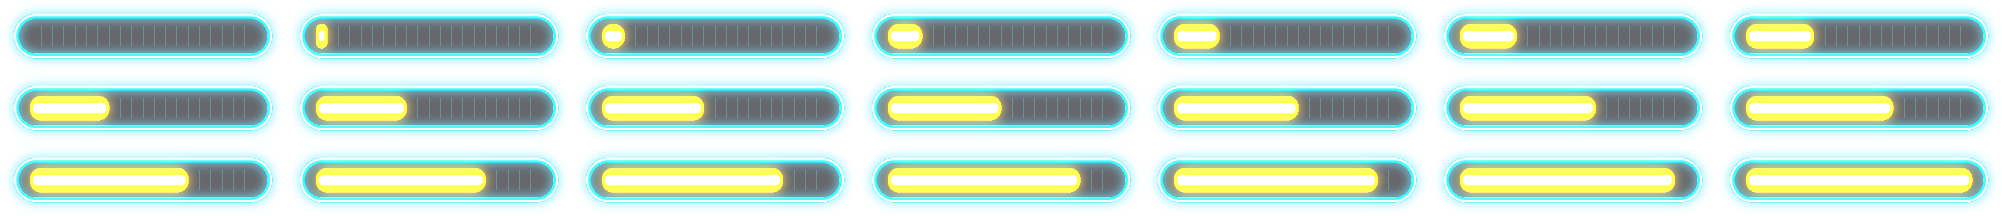
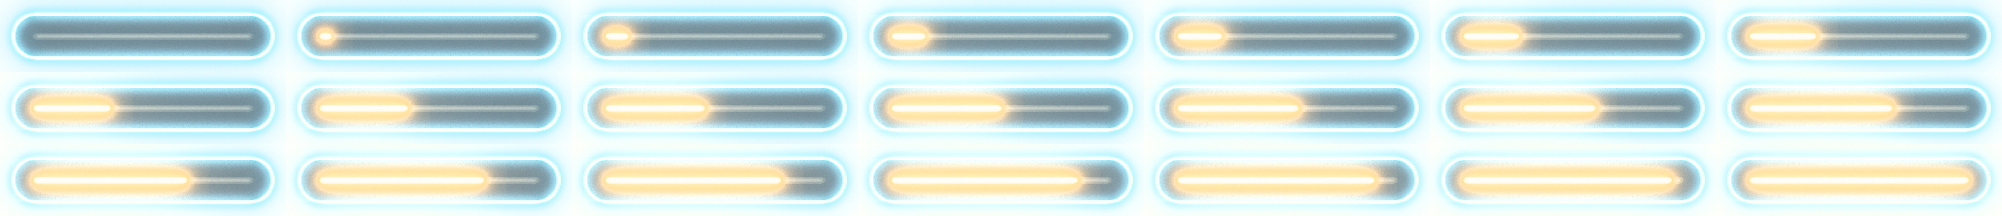
Loading bar: same glass-tube neon as the sign; alternative splash sound sets (preview only)

diff --git a/tools/art/splash_sound_options.py b/tools/art/splash_sound_options.py
@@ -1,0 +1,91 @@
+"""Alternative neon sound sets for the splash. Each set: hum (loops), zap, strike, dip as wav, plus demo_<set>.wav that plays them in the order the splash does."""
+import numpy as np, os, wave
+SR = 44100
+OUT = os.path.join(os.path.dirname(__file__), 'splash_sound_options')
+r = np.random.default_rng(9)
+
+def lp(x, k): return np.convolve(x, np.ones(k) / k, mode='same')
+def hp(x, k): return x - lp(x, k)
+def t_(n): return np.arange(n) / SR
+def env(n, a, d): t = t_(n); return np.minimum(t / a, 1) * np.exp(-t / d)
+def norm(x, p=0.8): return x / (np.abs(x).max() + 1e-9) * p
+def loopfade(x, ms=10):
+    f = int(ms / 1000 * SR); x = x.copy(); x[:f] *= np.linspace(0, 1, f); x[-f:] *= np.linspace(1, 0, f); return x
+def noise(n): return r.normal(0, 1, n)
+def clicks(n, rate, tail, dur):
+    z = np.zeros(n)
+    for i in np.nonzero(r.random(n) < rate / SR)[0]:
+        m = min(n - i, int(dur * SR)); z[i:i + m] += r.uniform(.3, 1) * r.choice([-1, 1]) * noise(m) * np.exp(-np.arange(m) / (tail * SR))
+    return z
+
+def set_A():  # transformer: deep, warm, mechanical
+    n = 2 * SR; t = t_(n)
+    hum = sum(a * np.sin(2 * np.pi * 50 * k * t + k * .7) for k, a in ((1, 1), (2, .7), (3, .35), (4, .3), (6, .12)))
+    hum = norm(hum) + .12 * norm(lp(noise(n), 40)) * (.6 + .4 * np.sin(2 * np.pi * 100 * t))
+    n2 = int(.25 * SR)
+    zap = norm(lp(noise(n2), 6) * env(n2, .001, .02) + .6 * np.sin(2 * np.pi * 70 * t_(n2)) * env(n2, .002, .06))
+    n3 = int(.9 * SR); t3 = t_(n3)
+    clack = lp(noise(n3), 3) * env(n3, .0005, .012) + .7 * lp(noise(n3), 18) * env(n3, .0005, .035)
+    swell = np.sin(2 * np.pi * 50 * t3 + 2 * np.pi * 25 * t3 ** 2) * (1 - np.exp(-t3 * 6)) * np.exp(-t3 / .6)
+    strike = norm(clack * 1.2 + .9 * swell)
+    n4 = int(.6 * SR); t4 = t_(n4)
+    dip = norm(np.sin(2 * np.pi * np.cumsum(90 * np.exp(-t4 * 4) + 28) / SR) * env(n4, .004, .25) + .5 * lp(noise(n4), 25) * env(n4, .002, .12))
+    return hum, zap, strike, dip
+
+def set_B():  # ballast sizzle: bright, frying, electric
+    n = 2 * SR; t = t_(n)
+    whine = np.sin(2 * np.pi * 8000 * t + 3 * np.sin(2 * np.pi * 3 * t)) * (.5 + .5 * np.sin(2 * np.pi * 2 * t))
+    fry = clicks(n, 900, .0007, .004) ; fry = fry / np.abs(fry).max()
+    hiss = hp(noise(n), 8); hiss /= np.abs(hiss).max()
+    hum = .18 * whine + .55 * fry + .25 * hiss * (.6 + .4 * np.sin(2 * np.pi * 1 * t)) + .25 * np.sin(2 * np.pi * 120 * t)
+    n2 = int(.2 * SR); t2 = t_(n2)
+    zap = norm(hp(noise(n2), 5) * env(n2, .0005, .03) + .5 * np.sin(2 * np.pi * 2400 * t2 * (1 - 2 * t2)) * env(n2, .001, .04) + clicks(n2, 60, .002, .01))
+    n3 = int(.8 * SR); t3 = t_(n3)
+    sizzle = hp(noise(n3), 6) * (1 - np.exp(-t3 * 7)) * np.exp(-t3 / .45)
+    strike = norm(clicks(n3, 80, .0015, .008) * env(n3, .0001, .35) + .8 * sizzle + .5 * np.sin(2 * np.pi * (3000 + 4000 * t3) * t3) * env(n3, .01, .12))
+    n4 = int(.55 * SR); t4 = t_(n4)
+    dip = norm(np.sin(2 * np.pi * np.cumsum(6000 * np.exp(-t4 * 7) + 200) / SR) * env(n4, .003, .2) + .4 * hp(noise(n4), 6) * env(n4, .002, .08))
+    return hum, zap, strike, dip
+
+def set_C():  # soft synth: musical, glassy, retro
+    n = 2 * SR; t = t_(n)
+    hum = np.sin(2 * np.pi * 55 * t) + .5 * np.sin(2 * np.pi * 82.5 * t) + .25 * np.sin(2 * np.pi * 110 * t)
+    hum = norm(hum) * (.8 + .2 * np.sin(2 * np.pi * 1 * t)) + .06 * norm(hp(lp(noise(n), 4), 40))
+    n2 = int(.18 * SR); t2 = t_(n2); f = r.choice([1320, 1760, 1568])
+    zap = norm(np.sin(2 * np.pi * f * t2 * (1 + .5 * np.exp(-t2 * 40))) * env(n2, .001, .03) + .4 * np.sin(2 * np.pi * f * 2 * t2) * env(n2, .001, .015))
+    n3 = int(1.0 * SR); t3 = t_(n3); strike = np.zeros(n3)
+    for k, fr in enumerate((220, 330, 440, 660, 880)):
+        s = int(k * .07 * SR); tt = t_(n3 - s)
+        strike[s:] += (np.sin(2 * np.pi * fr * tt) + .3 * np.sin(2 * np.pi * fr * 2 * tt)) * env(n3 - s, .002, .22) * (.5 + .1 * k)
+    strike = norm(strike + .15 * hp(noise(n3), 8) * env(n3, .0005, .02))
+    n4 = int(.6 * SR); t4 = t_(n4)
+    dip = norm((np.sin(2 * np.pi * np.cumsum(660 * np.exp(-t4 * 5) + 80) / SR) + .3 * np.sin(2 * np.pi * np.cumsum(990 * np.exp(-t4 * 5) + 120) / SR)) * env(n4, .003, .3))
+    return hum, zap, strike, dip
+
+def save(path, x):
+    with wave.open(path, 'wb') as w:
+        w.setnchannels(1); w.setsampwidth(2); w.setframerate(SR); w.writeframes((np.clip(x, -1, 1) * 32767).astype(np.int16).tobytes())
+
+def demo(hum, zap, strike, dip):
+    n = 12 * SR; m = np.zeros(n)
+    def put(x, at, v):
+        i = int(at * SR); k = min(len(x), n - i); m[i:i + k] += x[:k] * v
+    for i in range(6): put(strike if i == 0 else zap, .3 + .25 * i + (0 if i else 0), 1 if i == 0 else .35)
+    rep = np.tile(hum, 6)[:n]
+    ramp = np.clip((t_(n) - .3) / 1.5, 0, 1) * 0.3
+    m += rep * ramp * (1 - .7 * ((t_(n) > 8) & (t_(n) < 8.35)))
+    for at in (3.2, 3.32, 3.43, 3.6, 3.7): put(zap, at, .5)
+    for at in (6.0, 6.1, 6.2, 6.3): put(zap, at, .5)
+    put(dip, 8, .8)
+    for at in (10.0, 10.1, 10.2, 10.35): put(zap, at, .5)
+    return m
+
+if __name__ == '__main__':
+    for name, fn in (('A_transformer', set_A), ('B_sizzle', set_B), ('C_synth', set_C)):
+        d = os.path.join(OUT, name); os.makedirs(d, exist_ok=True)
+        hum, zap, strike, dip = fn()
+        hum = loopfade(hum)
+        for nm, x in (('neon_hum', hum), ('neon_zap', zap), ('neon_strike', strike), ('neon_dip', dip)):
+            save(os.path.join(d, nm + '.wav'), norm(x, .8 if nm != 'neon_hum' else .5))
+        save(os.path.join(OUT, 'demo_' + name + '.wav'), norm(demo(norm(hum, .5), norm(zap, .8), norm(strike, .8), norm(dip, .8)), .85))
+        print(name)

diff --git a/tools/art/progress_bar.py b/tools/art/progress_bar.py
@@ -1,15 +1,21 @@
 """Neon-tube loading bar for the splash: 21 frames, 286x72 each (2x of the 143x36 logical size), laid out 7 columns x 3 rows.
-Blue glass tube, yellow neon fill with a white-hot core, in the orbs' colours. Writes android/assets/res/hud/progress_bar.png."""
-import os
+Rendered with the same glass-tube neon as the splash sign (cyberpunk lib): a blue rim tube and a yellow tube that lights up
+from the left as loading progresses, the unlit part staying dead glass. Writes android/assets/res/hud/progress_bar.png."""
+import os, sys
 import numpy as np
 from PIL import Image, ImageDraw
 from scipy import ndimage as ndi
+sys.path.insert(0, os.path.expanduser('~/.claude/skills/claude-drawing/lib'))
+from cyberpunk import Cyberpunk
 
 FW, FH, N, COLS = 286, 72, 21, 7
-RED, BLUE = np.array([1.0, 0.76, 0.12]), np.array([0.13, 0.83, 0.96])
+BLUE, YELLOW = '#22d3f5', '#ffc21f'
 ROOT = os.path.abspath(os.path.join(os.path.dirname(__file__), '..', '..'))
 OUT = os.path.join(ROOT, 'android', 'assets', 'res', 'hud', 'progress_bar.png')
+Z = 12.0
 SS = 4
+PAD = 60
+RIM_R, FILL_R = 2.6, 3.6
 
 
 def rr(w, h, box, r):
@@ -18,48 +24,49 @@ def rr(w, h, box, r):
     return np.asarray(im.resize((w, h), Image.BOX), np.float32) / 255
 
 
-def ring(w, h, box, r, t):
-    a = rr(w, h, box, r)
-    b = rr(w, h, (box[0] + t, box[1] + t, box[2] - t, box[3] - t), max(r - t, 1))
-    return np.clip(a - b, 0, 1)
+def rim_path(box, r, n=24):
+    x0, y0, x1, y1 = box
+    pts = []
+    for (cx, cy, a0) in ((x1 - r, y0 + r, -90), (x1 - r, y1 - r, 0), (x0 + r, y1 - r, 90), (x0 + r, y0 + r, 180)):
+        for a in np.linspace(a0, a0 + 90, n):
+            pts.append((cx + r * np.cos(np.radians(a)), cy + r * np.sin(np.radians(a))))
+    return np.array(pts, np.float32)
 
 
-def blur(a, s): return ndi.gaussian_filter(a, s)
+def render(i, tubes=True):
+    """light-only render of one frame (the wall is black, so the image is the neon's own light)"""
+    # padded canvas so the glow falls off naturally at the frame edge, cropped back afterwards
+    W, H = FW + 2 * PAD, FH + 2 * PAD
+    c = Cyberpunk(W, H, seed=3, record=False, fog=400.0)
+    sl = c._box(0, 0, W - 1, H - 1)
+    c._put(sl, np.ones((H, W), np.float32), np.zeros((H, W, 3), np.float32), 0.0, Z + 1.5, None)
+    f = i / (N - 1)
+    if not tubes:
+        return np.asarray(c.composite().convert('RGB'), np.float32)[PAD:PAD + FH, PAD:PAD + FW] / 255
+    x0, x1 = 34 + PAD, FW - 34 + PAD
+    xe = x0 + (x1 - x0) * f
+    mid = H / 2
+    c.neon_path(rim_path((14 + PAD, 14 + PAD, FW - 14 + PAD, FH - 14 + PAD), 22), BLUE, Z, r=RIM_R, level=0.4, closed=True)
+    # the yellow tube: lit up to xe, dead glass beyond
+    if f > 0:
+        c.neon_path(np.array([(x0, mid), (xe, mid)], np.float32), YELLOW, Z, r=FILL_R)
+    if f < 1:
+        c.neon_path(np.array([(max(xe, x0) + (0 if f > 0 else 0), mid), (x1, mid)], np.float32), YELLOW, Z, r=FILL_R, state='dead')
+    return np.asarray(c.composite().convert('RGB'), np.float32)[PAD:PAD + FH, PAD:PAD + FW] / 255
+
+
+BASE = None
 
 
 def frame(i):
-    w, h = FW, FH
-    f = i / (N - 1)
-    L = np.zeros((h, w, 3), np.float32)
-    glass_a = np.zeros((h, w), np.float32)
-    # glass tube body: dark, slightly translucent, so the bar reads on any splash
-    body = rr(w, h, (14, 14, w - 14, h - 14), 22)
-    glass_a = np.maximum(glass_a, body * 0.62)
-    # blue neon rim
-    rim = ring(w, h, (14, 14, w - 14, h - 14), 22, 4.5)
-    core = ring(w, h, (14, 14, w - 14, h - 14), 22, 2.2)
-    L += (rim[..., None] * BLUE * 1.6 + core[..., None] * 0.85) * 0.9
-    # red fill: a neon tube growing from the left, with a hot core and a bright end cap
-    x0, x1 = 30, w - 30
-    xe = x0 + (x1 - x0) * f
-    if f > 0:
-        fill = rr(w, h, (x0, 24, max(xe, x0 + 6), h - 24), 11)
-        hot = rr(w, h, (x0 + 3, 31, max(xe - 3, x0 + 6), h - 31), 4)
-        L += fill[..., None] * RED * 1.7 + hot[..., None] * np.array([1.0, 0.93, 0.62]) * 1.2
-        cap = np.exp(-(((np.arange(w) - xe) / 7.0) ** 2))[None, :] * body * fill.max(0, keepdims=True).clip(0, 1) * 0
-        L += blur(fill, 6)[..., None] * RED * 0.7
-    else:
-        pass
-    # tick marks inside the empty part
-    for k in range(1, 20):
-        x = x0 + (x1 - x0) * k / 20
-        if x > xe + 2:
-            L[26:h - 26, int(x):int(x) + 1] += (BLUE * 0.18)
-    # glow around the rim
-    L += blur(rim, 5)[..., None] * BLUE * 0.9
-    # compose to RGBA (light over a translucent dark body)
+    global BASE
+    if BASE is None: BASE = render(0, tubes=False)
+    # subtract the empty wall's own haze and grain, so only the tubes' light remains
+    L = np.clip(render(i) - BASE, 0, 1)
+    body = rr(FW, FH, (14, 14, FW - 14, FH - 14), 22)
+    glass_a = body * 0.62
     dark = np.array([0.03, 0.04, 0.07], np.float32)
-    rgb = dark * glass_a[..., None] + L * (1 - 0)
+    rgb = dark * glass_a[..., None] + L
     a = np.clip(np.maximum(glass_a, L.max(-1)), 0, 1)
     col = np.where(a[..., None] > 1e-4, rgb / np.maximum(a[..., None], 1e-4), 0)
     out = np.dstack([np.clip(col, 0, 1), a])
@@ -77,4 +84,11 @@ def main():
 
 
 if __name__ == '__main__':
-    main()
+    if len(sys.argv) > 1:   # preview: a few frames over the splash wall colour
+        outp = sys.argv[1]
+        prev = Image.new('RGBA', (FW * 2, FH * 4), (14, 16, 24, 255))
+        for k, i in enumerate((0, 5, 10, 20)):
+            f = frame(i); prev.alpha_composite(f, (0, k * FH)); prev.alpha_composite(frame(min(i + 3, 20)), (FW, k * FH))
+        prev = prev.resize((prev.width * 3, prev.height * 3), Image.LANCZOS); prev.save(outp)
+    else:
+        main()
